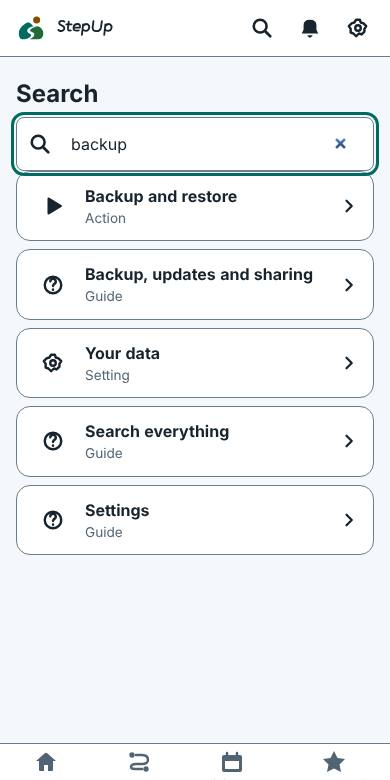
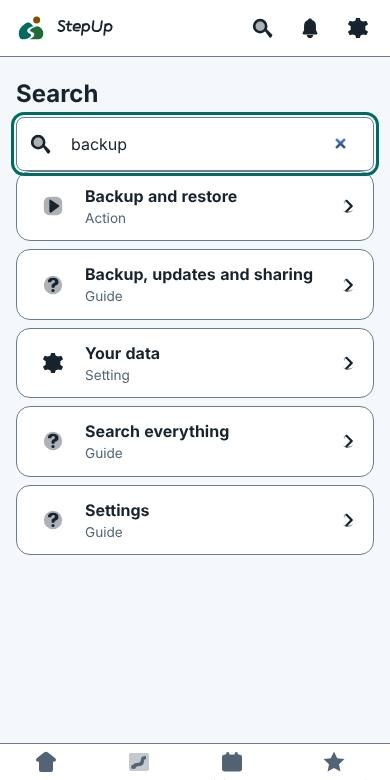
0.19.0: changelog, docs, guide screenshots with the new art
Claude-Session: https://claude.ai/code/session_015MgUfxYvuaf2H4JGRA2gxD

diff --git a/web/sw.js b/web/sw.js
@@ -1,5 +1,5 @@
 // Offline-first service worker. VERSION is kept equal to version.json by scripts/bump-version.mjs (a unit test enforces it).
-const VERSION = '0.18.0';
+const VERSION = '0.19.0';
 const CACHE = `stepup-${VERSION}`;
 const SHELL = ['./', 'index.html', 'manifest.webmanifest', 'version.json', 'icon.svg', 'css/packs.css', 'css/app.css',
   'js/app.js', 'js/routePlan.js', 'js/planner.js', 'js/planApi.js', 'js/ui/mapScreen.js', 'js/ui/planner.js', 'js/theme-boot.js', 'js/util.js', 'js/i18n.js', 'js/native.js', 'js/icons.js', 'js/brand.js', 'js/brandData.js', 'js/iconData.js', 'js/geo.js', 'js/workout.js', 'js/metronome.js', 'js/cadence.js', 'js/audio.js', 'js/format.js', 'js/store.js', 'js/ui/home.js', 'js/plan.js', 'js/indicators.js', 'js/appVersion.js', 'js/art.js', 'js/voice.js', 'js/records.js', 'js/facts.js', 'js/actions.js', 'js/guide.js', 'js/strings08.js', 'js/strings09.js', 'js/figureData.js', 'js/ui/guide.js', 'art/workout/banner-afternoon-dark.svg', 'art/workout/banner-afternoon-light.svg', 'art/workout/banner-evening-dark.svg', 'art/workout/banner-evening-light.svg', 'art/workout/banner-morning-dark.svg', 'art/workout/banner-morning-light.svg', 'art/workout/banner-night-dark.svg', 'art/workout/banner-night-light.svg', 'art/workout/card-forest-dark.svg', 'art/workout/card-forest-light.svg', 'art/workout/card-ocean-dark.svg', 'art/workout/card-ocean-light.svg', 'art/workout/card-sunrise-dark.svg', 'art/workout/card-sunrise-light.svg', 'art/workout/count-1-dark.svg', 'art/workout/count-1-light.svg', 'art/workout/count-2-dark.svg', 'art/workout/count-2-light.svg', 'art/workout/count-3-dark.svg', 'art/workout/count-3-light.svg', 'art/workout/count-4-dark.svg', 'art/workout/count-4-light.svg', 'art/workout/count-5-dark.svg', 'art/workout/count-5-light.svg', 'art/workout/count-go-dark.svg', 'art/workout/count-go-light.svg', 'art/workout/hint-double-tap-dark.svg', 'art/workout/hint-double-tap-light.svg', 'art/workout/hint-volume-keys-dark.svg', 'art/workout/hint-volume-keys-light.svg', 'js/ui/workoutShare.js', 'js/shareCard.js', 'js/metrics.js', 'js/gpx.js', 'js/daypart.js', 'js/challenge.js', 'art/celebrate/avatar-frame-dark.svg', 'art/celebrate/avatar-frame-light.svg', 'art/celebrate/confetti-circle-dark.svg', 'art/celebrate/confetti-circle-light.svg', 'art/celebrate/confetti-curl-dark.svg', 'art/celebrate/confetti-curl-light.svg', 'art/celebrate/confetti-rectangle-dark.svg', 'art/celebrate/confetti-rectangle-light.svg', 'art/celebrate/confetti-star-dark.svg', 'art/celebrate/confetti-star-light.svg', 'art/celebrate/confetti-triangle-dark.svg', 'art/celebrate/confetti-triangle-light.svg', 'art/celebrate/distance-record-dark.svg', 'art/celebrate/distance-record-light.svg', 'art/celebrate/fastest-kilometre-dark.svg', 'art/celebrate/fastest-kilometre-light.svg', 'art/celebrate/forest-dark.svg', 'art/celebrate/forest-light.svg', 'art/celebrate/laurel-dark.svg', 'art/celebrate/laurel-light.svg', 'art/celebrate/longest-streak-dark.svg', 'art/celebrate/longest-streak-light.svg', 'art/celebrate/medal-dark.svg', 'art/celebrate/medal-light.svg', 'art/celebrate/most-workouts-week-dark.svg', 'art/celebrate/most-workouts-week-light.svg', 'art/celebrate/ocean-dark.svg', 'art/celebrate/ocean-light.svg', 'art/celebrate/pace-record-dark.svg', 'art/celebrate/pace-record-light.svg', 'art/celebrate/podium-floor-dark.svg', 'art/celebrate/podium-floor-light.svg', 'art/celebrate/podium-steps-dark.svg', 'art/celebrate/podium-steps-light.svg', 'art/celebrate/rays-dark.svg', 'art/celebrate/rays-light.svg', 'art/celebrate/ribbon-dark.svg', 'art/celebrate/ribbon-light.svg', 'art/celebrate/sunrise-dark.svg', 'art/celebrate/sunrise-light.svg', 'art/celebrate/trophy-dark.svg', 'art/celebrate/trophy-light.svg', 'js/podiumCard.js', 'js/ui/podium.js', 'js/mapView.js', 'js/ui/maptiles.js', 'js/backup.js', 'js/ui/backup.js', 'art/badges/almost-distance-dark.svg', 'art/badges/almost-distance-light.svg', 'art/badges/almost-record-dark.svg', 'art/badges/almost-record-light.svg', 'art/badges/faster-last-dark.svg', 'art/badges/faster-last-light.svg', 'art/badges/fastest-km-dark.svg', 'art/badges/fastest-km-light.svg', 'art/badges/new-record-dark.svg', 'art/badges/new-record-light.svg', 'art/badges/passed-distance-dark.svg', 'art/badges/passed-distance-light.svg', 'art/onboarding/caught-up-dark.svg', 'art/onboarding/caught-up-light.svg', 'art/onboarding/no-plan-dark.svg', 'art/onboarding/no-plan-light.svg', 'art/onboarding/no-routes-dark.svg', 'art/onboarding/no-routes-light.svg', 'art/onboarding/no-workouts-dark.svg', 'art/onboarding/no-workouts-light.svg', 'art/onboarding/offline-dark.svg', 'art/onboarding/offline-light.svg', 'art/onboarding/welcome-dark.svg', 'art/onboarding/welcome-light.svg', 'art/weather/clear-dark.svg', 'art/weather/clear-light.svg', 'art/weather/cloudy-dark.svg', 'art/weather/cloudy-light.svg', 'art/weather/cold-dark.svg', 'art/weather/cold-light.svg', 'art/weather/hot-dark.svg', 'art/weather/hot-light.svg', 'art/weather/rain-dark.svg', 'art/weather/rain-light.svg', 'art/weather/windy-dark.svg', 'art/weather/windy-light.svg', 'js/update.js', 'js/strings07.js', 'js/ui/about.js', 'js/strings06.js', 'js/ui/plan.js', 'js/schedule.js', 'js/widgetData.js', 'js/syncNative.js', 'js/strings05.js', 'js/route.js', 'js/routeReco.js', 'js/strings04.js', 'js/ui/routes.js', 'js/ui/livemap.js', 'js/forecast.js', 'js/reco.js', 'js/weatherApi.js', 'js/strings03.js', 'js/ui/reco.js', 'js/stats.js', 'js/steps.js', 'js/effort.js', 'js/reminders.js', 'js/alerts.js', 'js/search.js', 'js/charts.js', 'js/reminderLoop.js', 'js/strings02.js', 'js/ui/dashboard.js', 'js/ui/alerts.js', 'js/ui/search.js', 'js/ui/notify.js', 'js/ui/settings.js', 'js/ui/history.js', 'js/ui/workout.js', 'js/ui/rhythm.js',

diff --git a/web/js/appVersion.js b/web/js/appVersion.js
@@ -1,2 +1,2 @@
 // The version of the code that is running (kept equal to version.json by scripts/bump-version.mjs; a unit test enforces it).
-export const APP_VERSION = '0.18.0';
+export const APP_VERSION = '0.19.0';

diff --git a/docs/CONTEXT.md b/docs/CONTEXT.md
@@ -6,8 +6,8 @@ Read this first in a new session. It says what the product is, where everything 
 **StepUp** (repo `ohadsam/distance_analyzer`): a walking and running tracker. One vanilla-JS web app (`web/`, no build step, no runtime dependencies) shipped as a **PWA** (GitHub Pages) and as a thin **Android WebView app** (`android/`, same `web/` folder as assets). Hebrew (RTL) is the default, English is chosen in Settings. No server, no account; data stays on the device. Branch `main` is the primary branch.
 Owner's standing rules live in `.claude/skills/release-checklist/SKILL.md` (section 0). Requests and their status: `docs/REQUESTS.md`. Plan: `docs/ROADMAP.md`.
 
-## Status (0.18.0)
-Done: **user guide (interactive tour with screenshots), search over actions / your data / the guide, a clear live map, a quiet first-run home, map screen with distance measuring, route planner by address and distance (0.18.0)**, **workout visual kit: banners, workout cards, countdown numerals, hints, number icons (0.17.0)**, **choose your workout numbers, day card, history sort/records/GPX/share picture, hands-free, countdown, wide layout (0.16.0)**, **new minimal workout screen, background voice, stop hint, sunlight mode, weekly challenge + Sunday summary, kit podium (0.15.0)**, **opt-in street map, battery optimisation, record celebration with victory photo (0.14.0)**, **backup/restore, week-bars widget, monthly summary (0.13.0)**, **rhythm coach and charts in the kit's look, folded filters, spoken cues (0.12.0)**, **kit art integrated: empty states, weather banner, indication badges, widget backgrounds, Android 12 splash (0.11.0)**, **update check, newest-APK download and share from inside the app (0.10.0)**, **two more Android widgets (last workout, next session) with a designed background (0.9.1, launcher verification pending)**, **bottom navigation, collapsible settings, lighter first dashboard, welcome card (0.9.0)**, **live in-workout indications (records, last time, faster km - 0.8.1)**, **training plans (build, week view, auto-match, gentle catch-up, reminders - 0.8.1)**, Android home-screen widgets (steps, weekly effort, measure now - 0.7.0, launcher verification pending)**, Android background (screen-off tracking, all-day steps, notifications when closed - 0.6.0, real-device verification pending)**, quick actions, routes (save, recognise, progress, suggestions, one-time, follow with ghost), tile-less live map (0.5.0)**, recommendations by weather and routine (0.4.0, opt-in network)**, workout mode (GPS distance/pace/splits, pause, lock, resume), smart rhythm coach (metronome + breathing guide), history, design foundation + StepUp brand, effort bar by age and history with deviation alerts, quality-weighted steps, dashboard (customisable widgets, filters, drill-down), alerts inbox, global search, reminders (fixed + smart nudges, while the app is open), manual weather per workout with weather-aware stats.
+## Status (0.19.0)
+Done: **redesigned single-colour icons, animated walk / run characters, live speed gauge, active navigation icons, calm-animations switch (0.19.0)**, **user guide (interactive tour with screenshots), search over actions / your data / the guide, a clear live map, a quiet first-run home, map screen with distance measuring, route planner by address and distance (0.18.0)**, **workout visual kit: banners, workout cards, countdown numerals, hints, number icons (0.17.0)**, **choose your workout numbers, day card, history sort/records/GPX/share picture, hands-free, countdown, wide layout (0.16.0)**, **new minimal workout screen, background voice, stop hint, sunlight mode, weekly challenge + Sunday summary, kit podium (0.15.0)**, **opt-in street map, battery optimisation, record celebration with victory photo (0.14.0)**, **backup/restore, week-bars widget, monthly summary (0.13.0)**, **rhythm coach and charts in the kit's look, folded filters, spoken cues (0.12.0)**, **kit art integrated: empty states, weather banner, indication badges, widget backgrounds, Android 12 splash (0.11.0)**, **update check, newest-APK download and share from inside the app (0.10.0)**, **two more Android widgets (last workout, next session) with a designed background (0.9.1, launcher verification pending)**, **bottom navigation, collapsible settings, lighter first dashboard, welcome card (0.9.0)**, **live in-workout indications (records, last time, faster km - 0.8.1)**, **training plans (build, week view, auto-match, gentle catch-up, reminders - 0.8.1)**, Android home-screen widgets (steps, weekly effort, measure now - 0.7.0, launcher verification pending)**, Android background (screen-off tracking, all-day steps, notifications when closed - 0.6.0, real-device verification pending)**, quick actions, routes (save, recognise, progress, suggestions, one-time, follow with ghost), tile-less live map (0.5.0)**, recommendations by weather and routine (0.4.0, opt-in network)**, workout mode (GPS distance/pace/splits, pause, lock, resume), smart rhythm coach (metronome + breathing guide), history, design foundation + StepUp brand, effort bar by age and history with deviation alerts, quality-weighted steps, dashboard (customisable widgets, filters, drill-down), alerts inbox, global search, reminders (fixed + smart nudges, while the app is open), manual weather per workout with weather-aware stats.
 Not done / known limits: the smart "no movement" nudge works only while the app is open; Android background features are verified only by a stand-in bridge and CI; internet is used only on request: the weather forecast (opt-in, Open-Meteo), update check (GitHub), map tiles (opt-in, OpenStreetMap) and the route planner (opt-in, four public services) - its live answer is unverified (sandbox blocks the host); automatic weather *per workout* (history) is still not built; the route planner's live answers (Nominatim, FOSSGIS OSRM, Open-Meteo elevation, Overpass) are only verified against stand-ins because the sandbox blocks those hosts, and its crossing / sidewalk reading depends on how well OpenStreetMap is mapped where you are; Kotlin is only compiled in CI; sensor thresholds are tuned on synthetic data, not a real run; steps are estimated from tracked workouts (no passive counter yet).
 
 ## How to run and verify

diff --git a/docs/TESTING.md b/docs/TESTING.md
@@ -28,7 +28,7 @@ Run all: `npm run check && npm test && npm run e2e` (CI runs the same plus Andro
 
 ## E2E steps (tests/e2e/smoke.mjs)
 Boot he/RTL + design tokens applied · English switch · dashboard (widgets, start cards) · workout flow with mocked GPS (distance grows, pause, finish, summary, history) · resume after reload / discard · finish question pauses · too-short workout not saved, starting another asks first · lock needs press-and-hold · rhythm coach (fake footstep sensor on a fake clock: silent while learning, locks near 168, breathing cue, pause silences) · rhythm without sensor (manual) · settings saved · dashboard customise/drill/filters/reorder survive reload · weather per workout feeds widget and filter · effort alert card + apply gentler bar + unread dot · global search (he + en, setting focus, workout, screen) · reminder fires on time · routes (`seedTracks(page, rows)` saves workouts that follow a path with real points: save/link/progress/rename/one-time/delete, suggestions by time of day, quick action starts at once, live map, ghost) · recommendations (mocked Open-Meteo via `mockWeather`: no request before consent, rounded coordinates, cache, failure + retry, habit windows with `seedHours`, widget, settings opt-in/forget, notification once; `hotForecast(base)` builds the synthetic answer) · axe over every screen (he light, en dark, three packs, workout + rhythm) · 320 px.
-New steps (0.18.0): `map screen` (measuring, undo, save, street-map opt-in loads tiles only after the tap), `route planner` (no request before consent, ranked cards with crossings / surface / climb, save, follow, the A-to-B form, Hebrew failure messages, revoke) using `tests/e2e/mocks.mjs`, `global search: actions, data facts and guide topics` (+ the guide walk-through), `live map explains itself`. A new install shows no widgets until the first workout: tests that need them seed a workout first.
+New step (0.19.0): `round-8 art` (characters animate, calm switch, active navigation icon, gauge needle). New steps (0.18.0): `map screen` (measuring, undo, save, street-map opt-in loads tiles only after the tap), `route planner` (no request before consent, ranked cards with crossings / surface / climb, save, follow, the A-to-B form, Hebrew failure messages, revoke) using `tests/e2e/mocks.mjs`, `global search: actions, data facts and guide topics` (+ the guide walk-through), `live map explains itself`. A new install shows no widgets until the first workout: tests that need them seed a workout first.
 New steps (0.8.1-0.12): welcome card + bottom navigation + collapsed settings, about/update/share (mocked GitHub API, browser and Android share), illustrations load in light and dark with no 404s. Filters are folded: tests open `details.fold` first; settings tests open `details.sec`.
 `fakeAndroid(init)` (option `native: {}`) stands in for `window.StepUpNative`: counts service start/stop, serves fixes/steps, records the notification schedule, serves a pending href; its fix buffer survives a reload through sessionStorage like the native file. Helpers: `newPage({lang, clock, clockAt, signalGapMs, geo})`, `seed(page, rows)` saves workouts through the app's own store, `fakeFootsteps` injects `devicemotion` events (desktop Chromium has no `DeviceMotionEvent` constructor: use a plain `Event`).
 

diff --git a/docs/CHANGELOG.md b/docs/CHANGELOG.md
@@ -1,5 +1,15 @@
 # Changelog
 
+## 0.19.0
+- **Redesigned icons**: every UI icon is redrawn (single colour, two-tone layers, rounded, a small signature) from the ChatGPT round-8b kit (`design/stepup/round8/`, icons in `design/stepup/svg/`); 80 icons incl. the active navigation variants, the `-start/-end` pairs and the speed / pace gauge glyphs. They still follow the style pack (currentColor).
+- **Animated characters**: the start cards now show a walking and a running character on a round plate that move (`figure()` in `icons.js`, drawn inline from generated data so the CSS can move their parts). Animations are limited to places that opt in with `.anim-on`: the start cards, the workout screen while running (GPS ping, flame, stopwatch...), the alerts bell while there are unread alerts.
+- **Live gauge**: the speed and pace captions on the workout screen show a tiny gauge whose needle follows your current speed / pace (`gaugeDeg` in `metrics.js`).
+- **Navigation shows where you are**: the bottom bar uses the active icon variants.
+- **Calm animations** (Settings, searchable): stops every moving picture; the phone's reduce-motion setting is honoured too (`html[data-calm="1"]`, applied before first paint).
+- Build: `class` is allowed on icon data, but only `m-<part>` / `z1..z5` hooks (checked by the design test); `scripts/build-design.mjs` also generates `web/js/figureData.js` (characters + gauges).
+- Round 9 prompt: `docs/prompts/ROUND9_PROMPT.md` (Trail, a signature character born from the logo, with poses and scenes for every place a person is shown). The round-8 zip was reviewed first and returned for correction (`ROUND8B_PROMPT.md`).
+- Verified: unit tests (icon / figure data safety, every icon the code uses exists, gauge needle mapping), e2e (characters move, calm stops them and is remembered, active navigation icon, the needle follows pace), the journey tour in Hebrew and English, axe. Not verified on a device.
+
 ## 0.18.0
 - **Map and measuring** (`#/map`, from Routes): drag to move, tap (or Enter at the crosshair) to lay points, the length of your line updates, undo / clear, save the line as a route or start the planner from the map's centre. Zoom buttons, "my location", a scale bar, keyboard control. The street map stays opt-in (a plain grid without it, no network).
 - **Route planner** (`#/routeplan`): start address (or my location / a point from the map), the distance you want, an end address or "finish where I started" -> up to five different routes nearby, **ranked by how close they are to the request**: distance first, then climbs (ascent / descent, elevation profile), road crossings (and how many have lights), sidewalks / paths / trails / roads, according to preferences (flat or hilly, few crossings, sidewalks or trails). Each card shows the match %, the facts that decided it, a map picture and buttons to start it (walk or run) or save it as a route. Everything online asks first (consent card, revocable), and missing data is said, not guessed. Uses Nominatim, FOSSGIS OSRM, Open-Meteo elevation and Overpass (see ARCHITECTURE).

diff --git a/docs/REQUESTS.md b/docs/REQUESTS.md
@@ -76,5 +76,5 @@ Status: ✅ shipped (version) · 🟡 partly (what is missing) · ⛔ not possib
 | 59 | A clear live map (legend, scale, hint) | ✅ 0.18.0 |
 | 60 | Map screen with distance measuring on the map | ✅ 0.18.0 (`#/map`) |
 | 61 | Route planner: start address, wanted distance, end address (may equal the start); several routes ranked by closeness to the request, considering climbs, road crossings, sidewalks, trails | ✅ 0.18.0 (`#/routeplan`; live services unverified from the sandbox; crossings / sidewalks depend on OpenStreetMap coverage) |
-| 62 | Much better, unique, rounded, animated icons (walk / run characters, all icons, speedometer) via a detailed ChatGPT prompt | 🟡 round 8 returned but did not meet the contract (reviewed, not integrated); correction prompt ready: `docs/prompts/ROUND8B_PROMPT.md` |
+| 62 | Much better, unique, rounded, animated icons (walk / run characters, all icons, speedometer) via a detailed ChatGPT prompt | ✅ 0.19.0 (round 8b integrated; a signature character is requested in round 9) |
 | 63 | A signature, original character based on the app logo that accompanies the app wherever a person is needed, with animations | 🟡 prompt ready: `docs/prompts/ROUND9_PROMPT.md`; integration when the kit returns |

diff --git a/docs/USER_GUIDE.md b/docs/USER_GUIDE.md
@@ -83,5 +83,8 @@ Open **Routes -> Map and measuring**. Drag the map to move, tap to add a point (
 ## Plan a route
 Open **Routes -> Plan a route**. The first time you are asked to allow online services (the address you type and points along the routes are sent to public services; nothing before you allow it; you can stop at the bottom of the screen). Type a start address (or use your location), the distance you want and an end address (or leave "Finish where I started"). Under **Preferences** choose flat or hilly, as few road crossings as possible, sidewalks or trails. **Find routes** shows up to five different routes, best first, each with a match %, climb, crossings and surface. **Start this route** opens the workout screen following it; **Save the route** adds it to your routes. Routes are suggestions: check them against what you see on the way.
 
+## Calm animations
+Settings -> **Calm animations** stops the moving pictures (the walking and running characters, the gauge needle, the ringing bell). Your phone's reduce-motion setting does the same.
+
 ## User guide
 Settings -> **User guide** (or search "guide") opens a tour of the app with a picture for each area and a "Try it" button.
